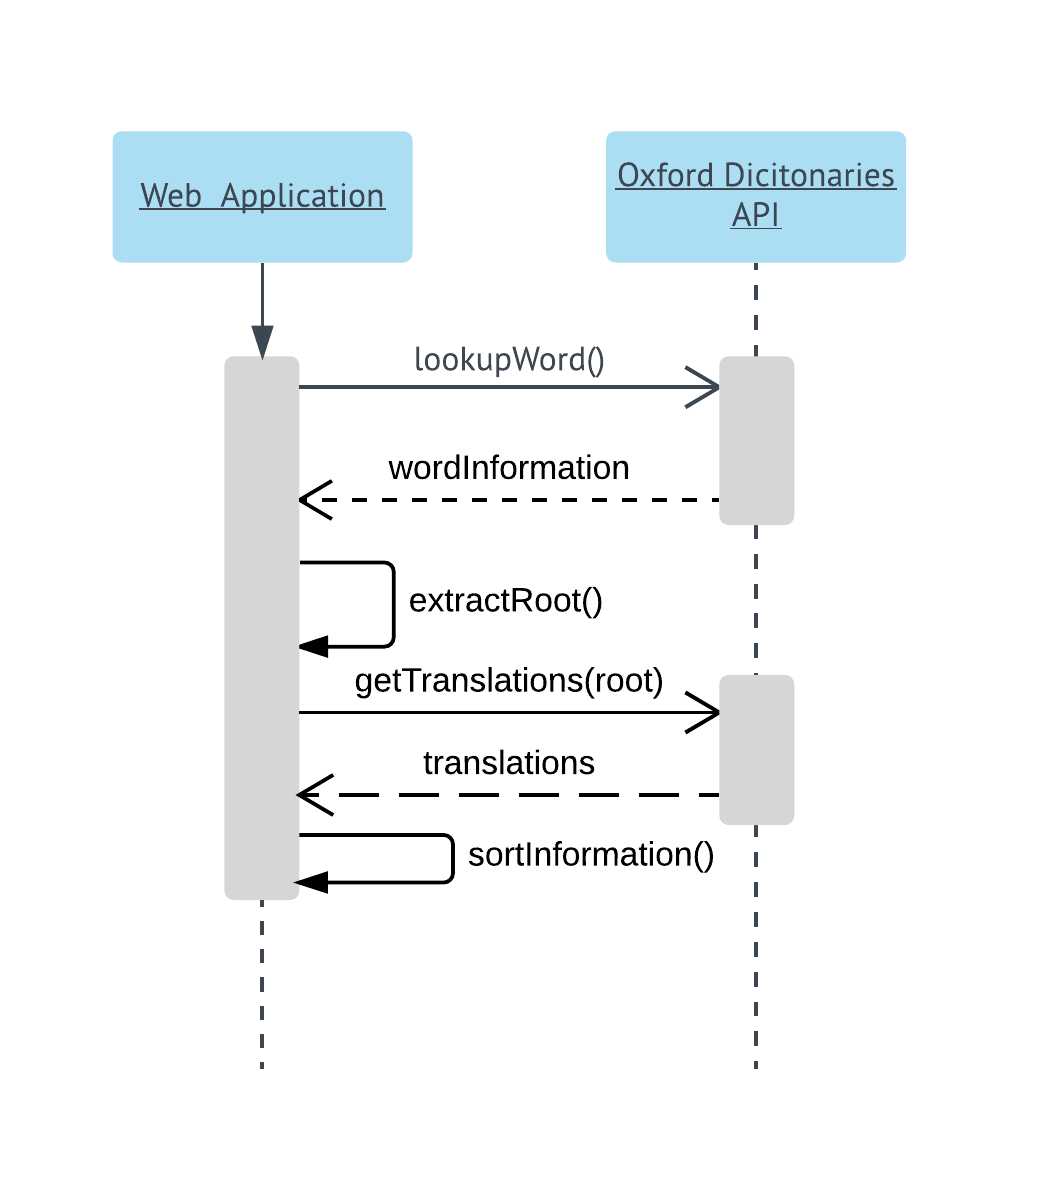
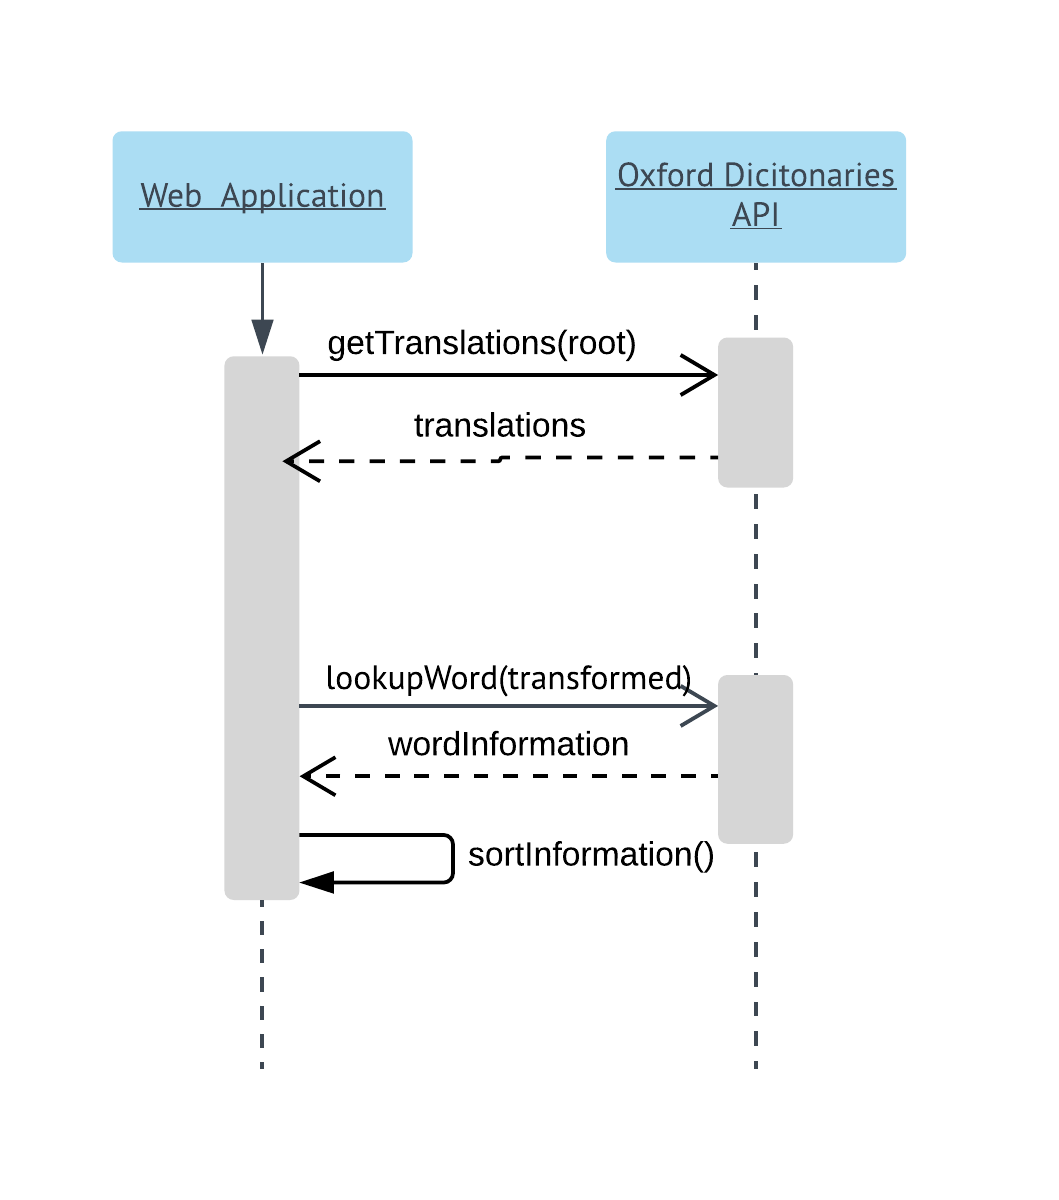
Final Report (4926)
Background reading complete, details effectiveness and designs of gloss as well as the different methods of rating article readablilty.

diff --git a/Final Report/Chapters/ApplicationLogic.tex b/Final Report/Chapters/ApplicationLogic.tex
@@ -14,16 +14,22 @@ Google News provides several lists of recent articles from different sources div
 
 The categories provided by the Google News RSS feeds were usable, but overall they were fairly common news categories. On the plus side, these categories are recognisable, on the down side, these categories are not customisable, however, the categories were pre-selected, saving time on artificial category creation, the end user can just selected one of them. 
 
-There were alternatives to the Google News RSS feeds that were examined, primarily newsapi.org. However this was found to be lacking for two reasons. Primarily, this API would list content, where the primary means of communication was not text. Comics and other image based got added to the lists being provided by the API. As the parser and the gloss system relied on the content being text based and there was no easy way to distinguish being text based content and image based content. The other more minor reason that newsapi.org was disregarded was because it was more difficult to categorise the articles, whereas the Google News RSS feeds provided pre-created categories, to save time on both filtering out image-based content and the categorisation of articles, the decision was made to use the Google News RSS feeds. 
+There were alternatives to the Google News RSS feeds that were examined, primarily \textcite{newsapi}. However this was found to be lacking for two reasons. Primarily, this API would list content, where the primary means of communication was not text. Comics and other image based got added to the lists being provided by the API. As the parser and the gloss system relied on the content being text based and there was no easy way to distinguish being text based content and image based content. The other more minor reason that \textcite{newsapi} was disregarded was because it was more difficult to categorise the articles, whereas the Google News RSS feeds provided pre-created categories, to save time on both filtering out image-based content and the categorisation of articles, the decision was made to use the Google News RSS feeds. 
 
 The end result of this is an application is that the articles being listed in the article selection view are pulled from the Google News RSS feed that corresponds to the category selected by the end user.
 
 \section{Article Difficulty Rating}
 
-The difficulty rating of the article is calculated using two things, the article text as well as the user's experience level. 
+The difficulty rating of the article is calculated using two things, the article text as well as the user's experience level. The user's experience level is obtained from the form the user submitted at the start, while the article text needs to be extracted from the article web page and then analysed.
+
+To extract and then analyse the article, two technologies are used. The first is an article scraping python library called \textcite{newspaper}, the purpose of it is to extract the raw article text from the article web page, making the analysis of it easier. Analysis of the article text is then done through another python library called SpaCy, SpaCy is a parts-of-speech tagging library, with some additional advanced features, pretty much all the analysis is performed when the article text is parsed into the library, meaning that library provides a bunch of information about the text.
 
 
 \section{Gloss Creation}
+
+For the gloss to work, each word of the text is wrapped in a set of span tags. Javascript is then added to the page, which adds an "on click" method to each of the words. When the user then clicks on the word, a request is sent to the application, for a gloss of that particular word in that particular part of speech, where the part of speech is stored in the data labels of the span tags, so this is also submitted to the application.
+
+The application then looks up the translation as well as more in depth grammatical information, once it has this information, it will format it into a pre-prepared html template which is then inserted into the html of the page.
 
 \subsection{Translation Lookup}
 
@@ -31,23 +37,23 @@ For the translation section of the gloss creation, various possibilities were co
 
 The technology that would be used in the project would have to:
 \begin{itemize}
-	\item Be able to translate single words from to English
-	\item Provide Lexical information of those words
-	\item Be allowed for the content to be hosted and provided through a web interface
-	\item Be available for less than \pounds150 total
-	\end{itemize}
-	
-	The five technologies cited above were checked against these criteria and the results are show in Table \ref{tbl:comp}
-	
-	\input{Tables/comparisonoftranslators}
-	
-	As \textcite{oxford} was the only technology to clear all four criteria, the decision was made to used it for development of the application, however other technologies were used in testing the resulting code.
-	
-	\textcite{oxford} is a REST API where two calls are required to get the desired information. The first, gets the translations of the root words, at the same time this is used to check if a word is the dictionary, the second call, which is made if a translation is found is to get the reasons why that particular mutation from the root occurred.  The process is illustrated in the systems flow diagram in figure \ref{fig:odsf}
-	
-	\input{Figures/OxfordSF}
-	
-	On the first call, the root word, as provided by SpaCy, had it's translations looked up. If one or more translation was discovered, the second call would be made, extracting the grammatical information about why the root was transformed into it's current form. Both this grammatical information and the tag explanation from SpaCy were used in the final gloss.
-	
-	Once this part of the application had been written, it was unit tested with a selection of random German words, the unconjugated word, translations and lexical information were compared to results provided by the other technologies and the developer's knowledge. The code passed testing as the results provided were accurate and contained the necessary grammatical information. 
+\item Be able to translate single words from to English
+\item Provide Lexical information of those words
+\item Be allowed for the content to be hosted and provided through a web interface
+\item Be available for less than \pounds150 total
+\end{itemize}
+
+The five technologies cited above were checked against these criteria and the results are show in Table \ref{tbl:comp}
+
+\input{Tables/comparisonoftranslators}
+
+As \textcite{oxford} was the only technology to clear all four criteria, the decision was made to used it for development of the application, however other technologies were used in testing the resulting code.
+
+\textcite{oxford} is a REST API where two calls are required to get the desired information. The first, gets the translations of the root words, at the same time this is used to check if a word is the dictionary, the second call, which is made if a translation is found is to get the reasons why that particular mutation from the root occurred.  The process is illustrated in the systems flow diagram in figure \ref{fig:odsf}
+
+\input{Figures/OxfordSF}
+
+On the first call, the root word, as provided by SpaCy, had it's translations looked up. If one or more translation was discovered, the second call would be made, extracting the grammatical information about why the root was transformed into it's current form. Both this grammatical information and the tag explanation from SpaCy were used in the final gloss.
+
+Once this part of the application had been written, it was unit tested with a selection of random German words, the unconjugated word, translations and lexical information were compared to results provided by the other technologies and the developer's knowledge. The code passed testing as the results provided were accurate and contained the necessary grammatical information. 
 	

diff --git a/Final Report/Chapters/BackgroundReading.tex b/Final Report/Chapters/BackgroundReading.tex
@@ -16,7 +16,7 @@ Another caveat that should also be added that most of the studies analysed in \t
 
 \subsection{Design Methods of Electronic Glosses}
 
-\textcite{roby1999} identifies three main parts of a gloss' design, its presentation, its taxonomy and its density. However, as density for this project's application is something determined by the leaner, background reading into design was limited to presentation and taxonomy. 
+\textcite{roby1999} identifies three main parts of a gloss' design, its presentation, its taxonomy and its density. However, as density, which is the amount of content in the gloss, is something determined by the user, background reading into design was limited to presentation and taxonomy. 
 
 \subsubsection{Gloss Presentation}
 
@@ -34,3 +34,19 @@ There is a large body of research that suggests that providing multimedia glosse
 
 
 \section{Article Difficulty Rating}
+
+The reading for this section of the application was harder to find, little has been written about the discovery and difficulty rating of texts for second language learners in general, or German learners in specific. 
+
+The easiest method of calculating the difficulty of an article seems to be a mathematical expression of it's readability, called a readability index. Perhaps the most famous of these being the Flesch Reading Ease (FRE) formula \autocite{flesch1948}. This formula is for America English, however similar formulae have been developed for German, two of these are highlighted below.
+
+The first formula for German is an adaptation of the FRE formula as proposed in \textcite{amstad1978}, this relies on much the same model as the original FRE formula, however takes into account the longer average word length in the German language, this formula is show in figure \ref{fig:fre} where  ASL is the average sentence length and ASW is the average syllables per word. This formula maps the readability of the text onto a range of 0 to 100, with 0 being easy and 100 being hard. 
+
+\input{Figures/FreFormula}
+
+The other readability index for German is the  Wiener Sachtextformel (WSTF) as proposed in \textcite{bamberger1984}, on version of this is as shown in figure \ref{fig:wst}. Where MS is the percentage of words with three or syllables, SL is the average sentence length, IW is the percentage of words with six or more characters and ES is the percentage of monosyllabic words. This formula maps the difficulty rating onto a range of 4 to 15, with the lower numbers being easier. This is done to reflect the German school year that is believed to be appropriate for that level of text.
+
+\input{Figures/WstfFormula}
+
+The two formulas are commonly used together when assessing the readability of texts, being used in a variety of studies, such as \textcite{rottensteiner2010} which uses them both to assess the readability of newly published textbooks. This publication also notes that these formulae only measure the linguistic complexity of the article, ignoring other factors, such as presentation, that influence how easy the article is to read. 
+
+In addition to the formulae listed above there are methods of determining a readability ranking through the use of machine learning. \textcite{hancke2012} which attempts to build a readability classification system from a corpus of articles. This paper looks a lot more in depth at a lot of features of the text. However, this model only performed 7.5\% better than the computational scores calculated from the traditional formula. Given the time constraints and the already complex nature of the project, it would not be worth the effort to implement such a model, as the tradition formulae such as WSTF and FRE perform well enough for the purposes of this project. 

diff --git a/Final Report/final report.tex b/Final Report/final report.tex
@@ -8,6 +8,7 @@
 \newcommand{\code}[1]{\texttt{#1}}
 \usepackage[backend=biber, style=authoryear]{biblatex}  % Location of your graphics files
 \addbibresource{Bibliography.bib}
+\addbibresource{technologies.bib}
 %\usepackage{natbib}         % Use Natbib style for the refs.
 \usepackage{tabu}
 \usepackage{float}

diff --git a/Final Report/Figures/WstfFormula.tex b/Final Report/Figures/WstfFormula.tex
@@ -1,0 +1,9 @@
+\begin{figure}[H]
+	\caption{Erste Wiener Sachtextformel Formula}
+	\label{fig:wst}
+	\begin{center}
+		\begin{math}
+		WSTF = 0.1935 \times MS + 0.1672 \times SL + 0.1297 \times IW - 0.0327 \times ES - 0.875
+		\end{math}
+	\end{center}
+\end{figure}

diff --git a/Final Report/Figures/FreFormula.tex b/Final Report/Figures/FreFormula.tex
@@ -1,0 +1,9 @@
+\begin{figure}[H]
+	\caption{Flesch Reading Ease Formula}
+	\label{fig:fre}
+	\begin{center}
+		\begin{math}
+		FRE = 180 - ASL - 58.5 \times ASW
+		\end{math}
+	\end{center}
+\end{figure}
